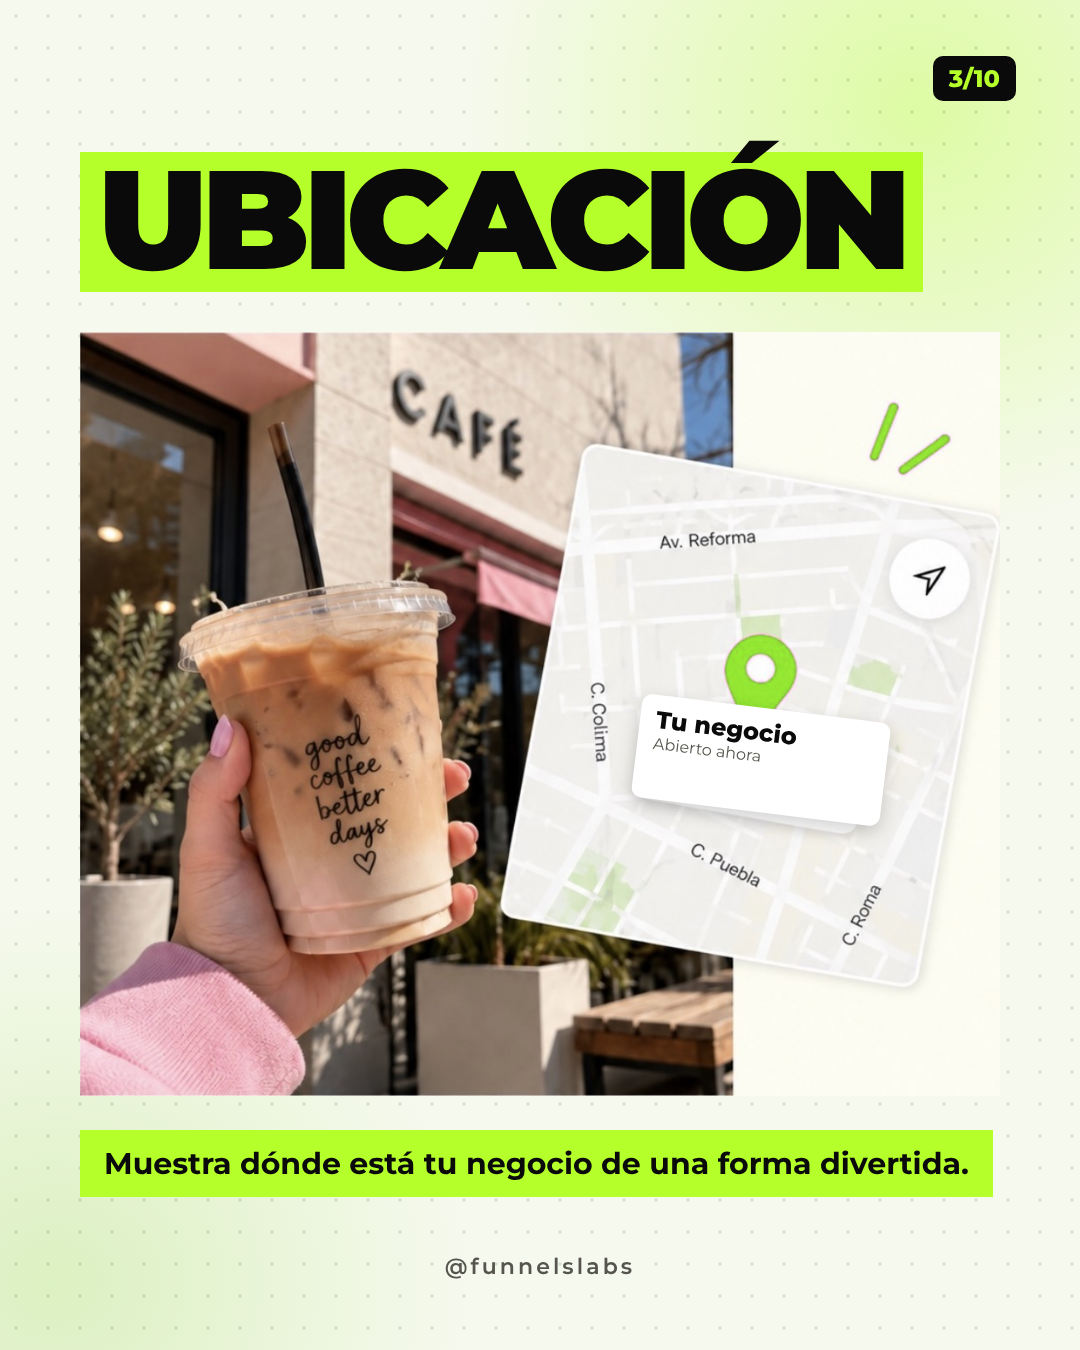
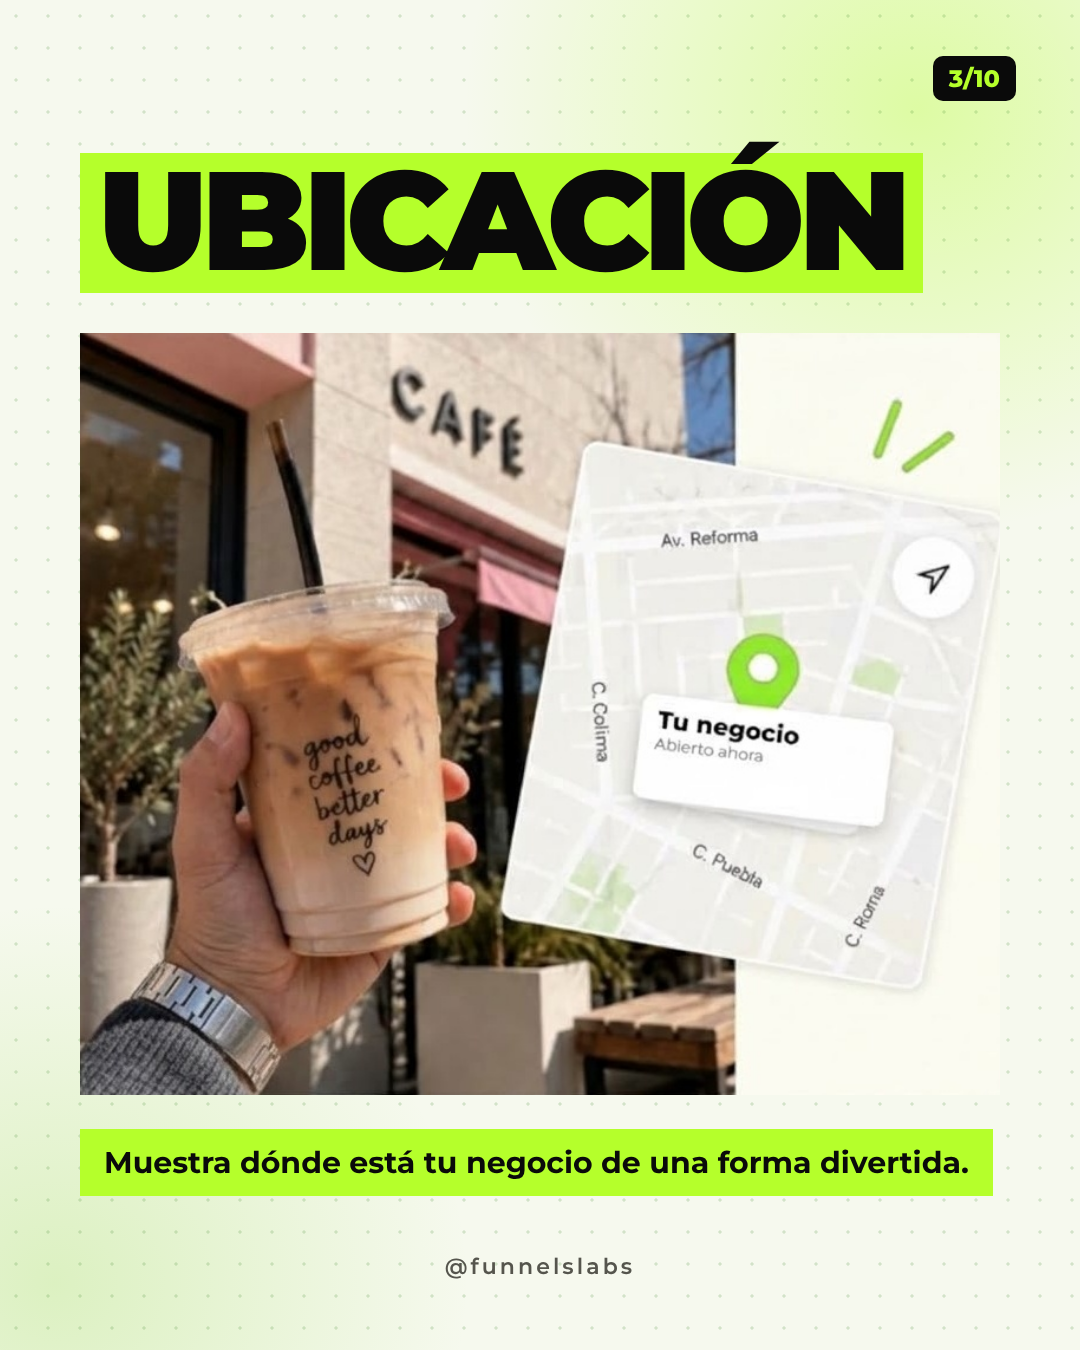
Ubicación con mano de hombre en estilo de marca
Claude-Session: https://claude.ai/code/session_018d4LXHkXweDJXxfN5x99dL

diff --git a/carruseles/ideas-carruseles/carrusel.html b/carruseles/ideas-carruseles/carrusel.html
@@ -47,8 +47,7 @@ body{background:#d9d9d2;font-family:"Montserrat",Arial,sans-serif;color:var(--in
 <section class="slide">
   <div class="n">3/10</div>
   <div class="T hl" style="font-size:140px;align-self:flex-start;margin-top:20px">Ubicación</div>
-  <div class="ph" style="width:920px;height:764px;margin-top:40px;box-shadow:none;background:transparent"><img src="ref/r9.jpg" style="object-fit:contain">
-    <div style="position:absolute;left:556px;top:376px;width:250px;height:104px;background:#fff;border-radius:10px;transform:rotate(7deg);padding:10px 16px;box-shadow:0 6px 18px rgba(0,0,0,.18)"><div style="font-weight:800;font-size:24px">Tu negocio</div><div style="font-size:16px;color:#55554d">Abierto ahora</div></div></div>
+  <div class="ph" style="width:920px;height:762px;margin-top:40px;box-shadow:none;background:transparent"><img src="ref/ubicacion-hombre.jpg" style="object-fit:contain"></div>
   <div class="cap">Muestra dónde está tu negocio de una forma divertida.</div>
   <div class="handle">@funnelslabs</div>
 </section>
